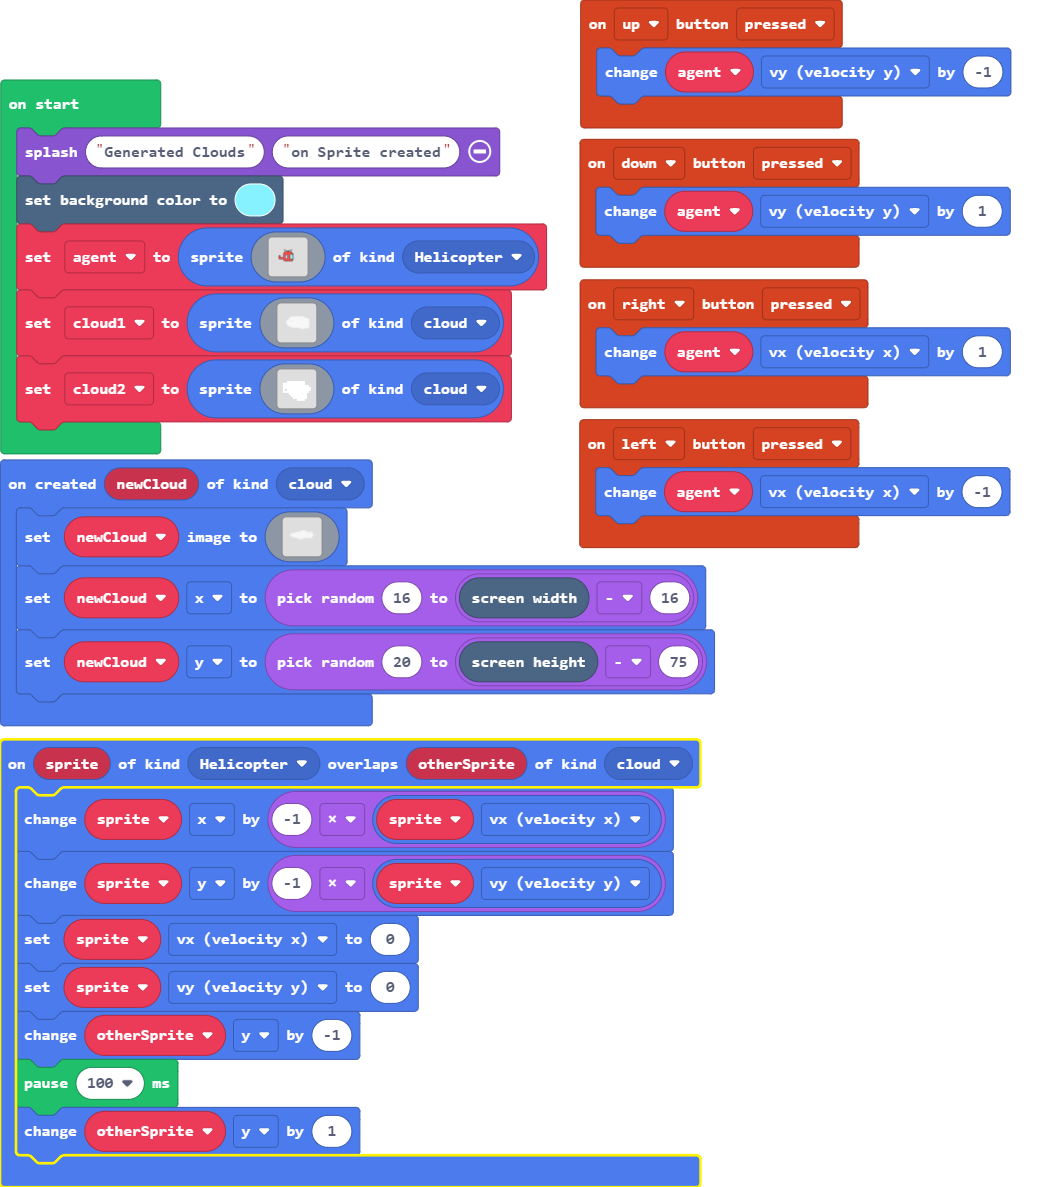
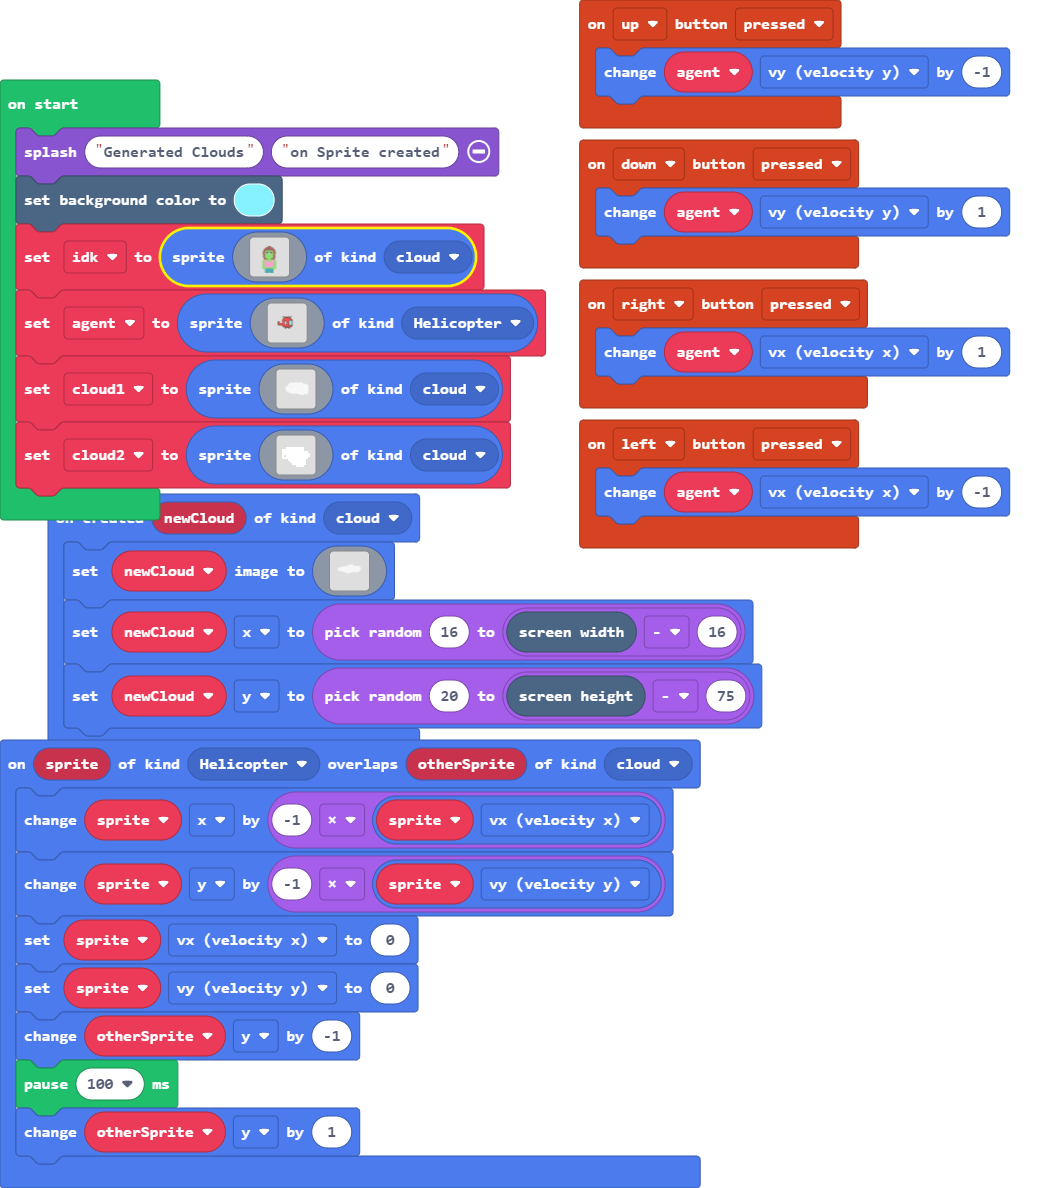
scsas

diff --git a/main.ts b/main.ts
@@ -182,6 +182,58 @@ sprites.onOverlap(SpriteKind.Helicopter, SpriteKind.cloud, function (sprite, oth
 let agent: Sprite = null
 game.splash("Generated Clouds", "on Sprite created")
 scene.setBackgroundColor(9)
+let idk = sprites.create(img`
+    ..................................................
+    ..................................................
+    ..................................................
+    ..................................................
+    ..................................................
+    ..................................................
+    ..................................................
+    ..................................................
+    ......................eeeee.......................
+    ......................eeeee.......................
+    ...................eeeeeeeeeee....................
+    ..................eeeeeeeeeeeee...................
+    .................eeeeeeeeeeeeeee..................
+    ................eeeeeeeeeeeeeeeee.................
+    ................eeeeeeeeeeeeeeeee.................
+    ...............eeee77777777777eeee................
+    ...............eeee77777777777eeee................
+    ...............eee777ff777ff777eee................
+    ..............eeee77faa777aaf77eeee...............
+    ..............7eee777a17771a777eee7...............
+    ..............7eee777a17771a777eee7...............
+    ..............1eee7777777777777eee1...............
+    ...............eee7777777777777eee................
+    ...............eee7777777777777eee................
+    ...............eee7777777777777eee................
+    ...............eee7777777777777eee................
+    ................eee77777777777eee.................
+    ................eeeee7777777eeeee.................
+    ................eeeeee77777eeeeee.................
+    ...............7773377777777733777................
+    ..............777733777777777337777...............
+    ..............777333377777773333777...............
+    ..............777333333333333333777...............
+    ..............777333333333333333777...............
+    ..............777333333333333333777...............
+    ..............777333333333333333777...............
+    ..............777333333333333333777...............
+    ..............777333333333333333777...............
+    ..............777333333333333333777...............
+    ..............777773333333333377777...............
+    ..............777.7733333333377.777...............
+    ..............777.7777777777777.777...............
+    ..............777.7777777777777.777...............
+    ...............77.6666666666666.77................
+    ..................6666666666666...................
+    ..................6666666666666...................
+    ..................6666666666666...................
+    ..................6666666666666...................
+    ..................666666.666666...................
+    ..................666666.666666...................
+    `, SpriteKind.cloud)
 agent = sprites.create(img`
     ....................................................................................................
     ....................................................................................................
@@ -210,11 +262,11 @@ agent = sprites.create(img`
     ....................................................................................................
     ....................................................................................................
     ....................................................................................................
-    .....................................ff......................ff.....................................
-    ......................................ffff...............ffff.......................................
-    ..........................................fff.........ffff..........................................
-    .............................................ff....fff..............................................
-    ...............................................fff.f................................................
+    ....................................................................................................
+    ....................................................................................................
+    ....................................f..........................f....................................
+    ....................................fffffffffff......fffffffffff....................................
+    ..............................................fff..fff..............................................
     ...............................................ffffff...............................................
     .......................................ffffffffffffffffffffff.......................................
     .......................................f22222222222222222222f.......................................
@@ -246,10 +298,10 @@ agent = sprites.create(img`
     ......................................f22222222222222222222222f.....................................
     ......................................f22222222222222222222222f.....................................
     ......................................fffffffffffffffffffffffff.....................................
-    ....................................................................................................
-    ....................................................................................................
-    ....................................................................................................
-    ....................................................................................................
+    .............................................fffffffffff............................................
+    .............................................ff.......ff............................................
+    .............................................ff.......ff............................................
+    ..........................................fffff.......fffff.........................................
     ....................................................................................................
     ....................................................................................................
     ....................................................................................................
